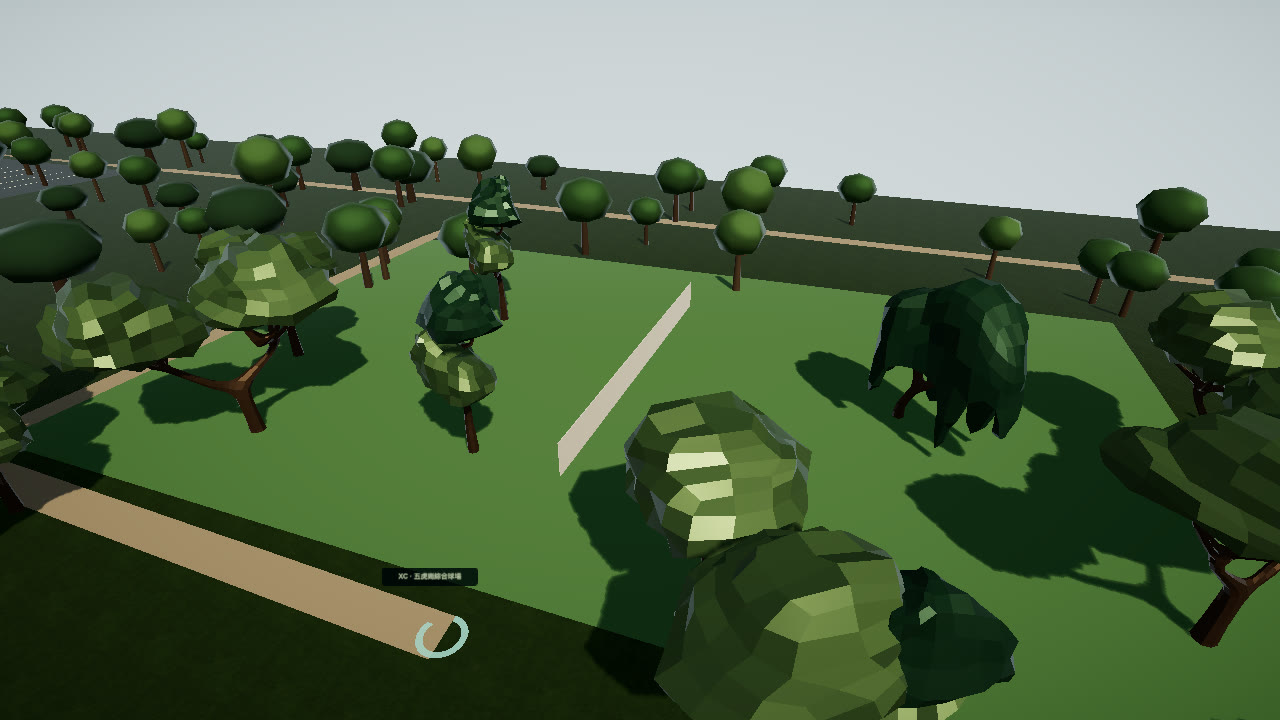
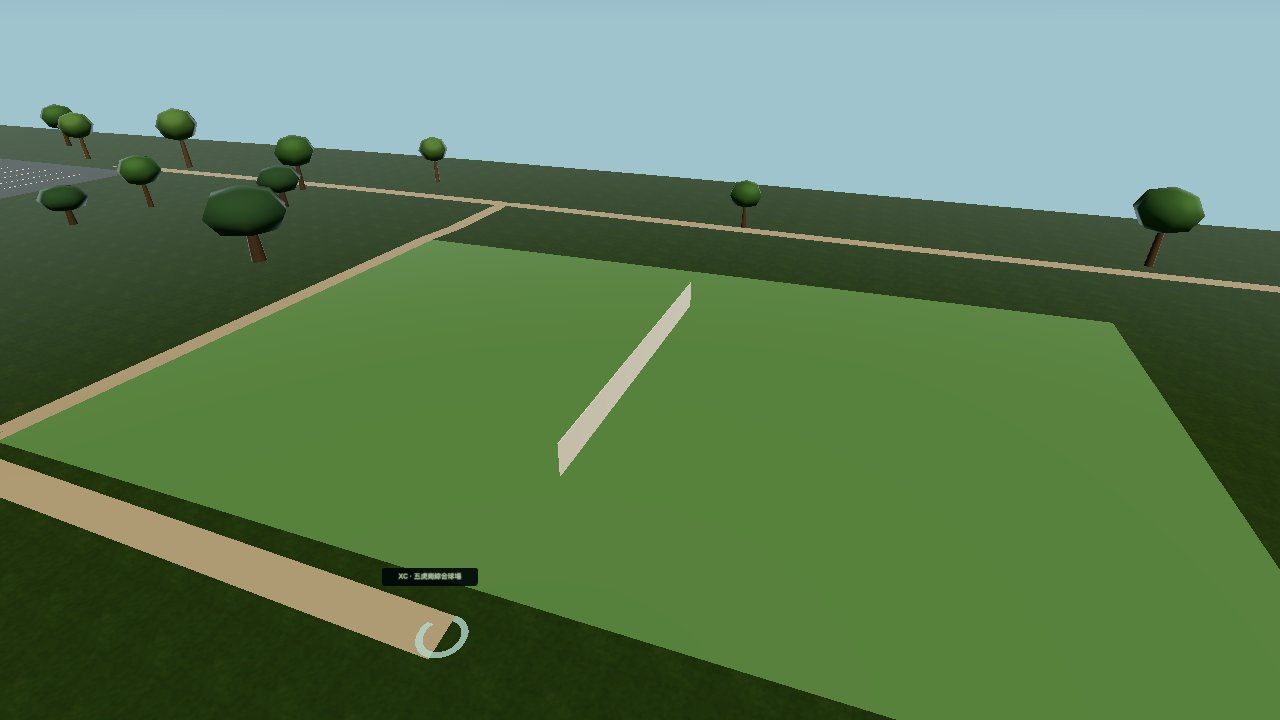
Record the wet-court checks on this host.
The rain shots are from this machine, and the integration notes keep the court clearing while the untextured courts scale darker in the rain.

diff --git a/docs/integration/HANDOFF.md b/docs/integration/HANDOFF.md
@@ -4,18 +4,18 @@
 
 ## 現在
 
-- 這次把散佈的樹移出球場、田徑場和停車場。接到 `origin/main` `d32e714`。遊戲程式是 `a26b87d`。
-- 外緣再留 3 m。五虎崗草皮是空的。1280×720 與 390×780 都看得到。植株位置仍是 estimated。這一輪不靠 PR #135 的球場線。
-- 跨系統路線在 `http://127.0.0.1:8146/` 通過：大門經驗 20、筆記 19；補給後經驗 44、筆記 21、學期期中；突襲小考 65→45；第二客戶端看到期中；`revision_conflict`；斷線時雲端經驗停在 47；登出 401。`pageErrors` 空。
-- PR #122 仍是 `48b1ac6`。不要單獨合併，也不要帶進 `docs/full-integration`。
+- 這次讓沒有貼圖的球場、停車場和跑道在雨後把顏色乘小。接到 `origin/main` `7c85a42`。遊戲程式是 `560f21d`。
+- 晴天顏色不變。1280×720 與 390×780 都看得到五虎崗雨後較深，樹仍在場外。不是實測日照。這一輪不畫 PR #135 的球場線。
+- 跨系統路線在 `http://127.0.0.1:8147/` 通過：大門經驗 20、筆記 19；補給後經驗 44、筆記 21、學期期中；突襲小考 65→45；第二客戶端看到期中；`revision_conflict`；斷線時雲端經驗停在 47；登出 401。`pageErrors` 空。
+- PR #122 現在是 `494989e`。對 `main` 的差只有 `docs/full-integration`、他們的路線腳本和兩行 CSS。不要單獨合併，也不要帶進 `docs/full-integration`。
 
-## 本輪已驗證（球場不種樹）
+## 本輪已驗證（雨後場地）
 
-`node --test scripts/court-clearing.test.mjs` 通過。`npm test` 310 通過。`node --experimental-transform-types scripts/integration-route.mjs` 走 `http://127.0.0.1:8146/`。幀時間是 SwiftShader。植株位置是 estimated。
+`node --test scripts/wet-surface.test.mjs` 通過。`npm test` 311 通過。`node --experimental-transform-types scripts/integration-route.mjs` 走 `http://127.0.0.1:8147/`。幀時間是 SwiftShader。不是實測日照。
 
 ## 下一步
 
-先 `git fetch`。樹清場已在 `main`，遊戲程式是 `a26b87d`。沒有再變就不要重跑跨系統路線，也不要為了對齊 SHA 再寫一筆。PR #32 的 `1fc5887` 仍不合併。整合 PR 是 #146。來源 `5739cd3` 不是祖先，不要單獨合併 PR #140。不要單獨合併 PR #122。PR #144、#143、#141、#138、#139、#131、#137、#128、#133、#129、#110、#108、#107、#105、#102、#101、#99、#97、#96、#93、#91、#90、#88、#86、#85、#82、#80、#79、#77、#75、#73、#72、#70、#68、#67、#65、#63、#61、#59、#56、#54、#53、#51 的程式已經在更早的整合裡，也不要再單獨合併。下一項是雨天把球場和跑道變暗（PR #142，`f900c8c`），它不靠球場線，但和 PR #135 都改 `ContextStructures.tsx`。接著是五虎球場畫線（PR #135，`06a75dc`）、坡道欄杆（PR #132，`1dce114`）、海事博物館船首（PR #127，`d0fd98b`）、會文館（PR #111，`412b130`）、司令臺台面（PR #113，`f2750c7`）、低畫質行人（PR #115，`9672ff3`）、美術傳輸預算（PR #116，`9a3d594`）、宮燈大道四個時段（PR #118，`266e4b7`）、宮燈鏡頭（PR #121，`3ce5f17`）、路燈燈頭（PR #124，`2b45515`）。先看它們目前的 head，再各自整合，不要單獨合併。三角形仍用 `7507c59` 那次重測。
+先 `git fetch`。雨後場地已接到這條整合分支，遊戲程式是 `560f21d`。靜態產物是 `AdventureApp-Bw3-LFcW.js`。PR #32 的 `1fc5887` 仍不合併。來源 `41771bb` 不是祖先，不要單獨合併 PR #142。不要單獨合併 PR #122。PR #146、#144、#143、#141、#140、#138、#139、#131、#137、#128、#133、#129、#110、#108、#107、#105、#102、#101、#99、#97、#96、#93、#91、#90、#88、#86、#85、#82、#80、#79、#77、#75、#73、#72、#70、#68、#67、#65、#63、#61、#59、#56、#54、#53、#51 的程式已經在更早的整合裡，也不要再單獨合併。下一項是五虎球場畫線（PR #135，`06a75dc`）。它和這一輪都改 `ContextStructures.tsx`，要同時留下雨後的顏色和兩塊球場的線。接著看涼亭（PR #145，`193f29d`），它也改 `ContextStructures.tsx` 和植栽。然後是坡道欄杆（PR #132，`1dce114`）、海事博物館船首（PR #127，`d0fd98b`）、會文館（PR #111，`412b130`）、司令臺台面（PR #113，`f2750c7`）、低畫質行人（PR #115，`9672ff3`）、美術傳輸預算（PR #116，`9a3d594`）、宮燈大道四個時段（PR #118，`266e4b7`）、宮燈鏡頭（PR #121，`3ce5f17`）、路燈燈頭（PR #124，`2b45515`）。先看它們目前的 head，再各自整合，不要單獨合併。三角形仍用 `7507c59` 那次重測。
 
 INT-01 維持不動。不要新增學期選擇，也不要做第二套獎勵帳。
 

diff --git a/docs/integration/STATUS.md b/docs/integration/STATUS.md
@@ -1,13 +1,13 @@
 # 整合狀態
 
-更新：2026-11-12。散佈的樹不再種進球場、田徑場和停車場，外緣留 3 m。五虎崗草皮是空的。植株位置仍是估計的。幀時間仍是 SwiftShader。
+更新：2026-11-12。沒有貼圖的球場、停車場和跑道在雨後把顏色乘小。晴天顏色不變。樹仍留在場外。不是實測日照。幀時間仍是 SwiftShader。
 本文件只記實際程式、PR 與本輪驗收。不把 M1 或 M2 當成整款遊戲完成，也不以 PR 或文件數量估算完成率。
 
 ## 三條線
 
 | 線 | 目前成果 | 開放 PR | 狀態 |
 | --- | --- | --- | --- |
-| 美術與場景 | 散佈的樹留在球場、田徑場和停車場外面。五虎崗草皮是空的。圖書館坡道仍可走。 | 來源 PR #140 `5739cd3`。整合 PR #146 | `merged` |
+| 美術與場景 | 球場、停車場和跑道在雨後變暗、變滑。晴天顏色不變。樹仍留在場外。 | 來源 PR #142 `41771bb`。整合尚未開 PR | `verified` |
 | 後端 | 雲端存檔接受既有背包的 `loadout`、`gear`、隔離物品和手持設施，並拒絕白名單以外的欄位。沒有這些欄位的舊存檔仍可上傳。 | 來源 `a76918e`。整合 PR #144 | `merged` |
 | 內容 | 十二名虛構的教授與系主任可以在估計的崗位交談。跨學院的選擇會改後面的句子。獎勵仍進既有背包，而且只記一次。 | 來源 PR #131 `246eadf`。整合 PR #139 | `merged` |
 
@@ -15,15 +15,15 @@
 
 ## 本輪範圍
 
-散佈的樹若落在球場、田徑場或停車場裡面，或外緣 3 m 內，就不種。五虎崗草皮上沒有樹幹。1280×720 與 390×780 都看得到空的草皮，樹在場外。植株位置仍是 estimated。這一輪不靠 PR #135 的球場線。圖書館坡道留著。
+沒有貼圖的球場、停車場和跑道在雨後把顏色乘小，亮度下降、粗糙度下降。晴天維持原來的綠、灰和磚紅。1280×720 與 390×780 都看得到五虎崗雨後較深的草皮和雨絲。樹仍在場外。不是實測日照。這一輪不畫 PR #135 的球場線。
 
 ## 路線
 
 | 項目 | 狀態 |
 | --- | --- |
-| 已製作 | 散佈的樹留在球場、田徑場和停車場外緣 3 m 外 |
-| 已驗證 | 靜態頁 `http://127.0.0.1:8146/`。1280×720 與 390×780 看得到五虎崗空草皮。`npm test` 310 通過。跨系統路線在同一站，`pageErrors` 空 |
-| 已合併 | 是。遊戲程式 `a26b87d`。整合 PR #146。`main` 未受保護、沒有必須的 check |
+| 已製作 | 雨後的球場、停車場和跑道把顏色乘小 |
+| 已驗證 | 靜態頁 `http://127.0.0.1:8147/`。1280×720 與 390×780 看得到五虎崗雨後較深。`npm test` 311 通過。跨系統路線在同一站，`pageErrors` 空 |
+| 已合併 | 否。遊戲程式 `560f21d`。`main` 未受保護、沒有必須的 check |
 | 已部署 | 否 |
 
 ## 尚未完成的遊戲範圍

diff --git a/docs/integration/VALIDATION.md b/docs/integration/VALIDATION.md
@@ -653,6 +653,14 @@ PR #122 的 head 在這輪又改到 `48b1ac6`。和 `main` 比，遊戲程式沒
 
 瀏覽器 `http://127.0.0.1:8146/`。1280×720 與 390×780 都看得到五虎崗空草皮，樹在場外。頁面無錯誤。同一站跨系統路線通過：大門經驗 20、筆記 19；補給後經驗 44、筆記 21、學期期中；突襲小考 65→45、經驗停在 44；存檔重載經驗 44、筆記 21、科系 `science-理學院-2`；revision 1；第二客戶端看到期中；`revision_conflict`；斷線時雲端經驗是 47；登出 401。`pageErrors` 空。
 
+## 雨後場地（本輪）
+
+來源 `41771bb` 接到 `7c85a42`。美術文件留到第 52 輪，這一輪記成第 53 輪。沒有帶 PR #135 的球場線。
+
+沒有貼圖的球場、停車場和跑道在雨後把顏色乘小，亮度下降、粗糙度下降。晴天顏色不變。這些顏色比材質庫的濕灰還深，所以不把灰色混進去。不是實測日照。樹仍留在場外。`npm run typecheck` 通過。`npm test` 311 通過。`npm run build:site` 通過，產物 `AdventureApp-Bw3-LFcW.js`。
+
+瀏覽器 `http://127.0.0.1:8147/`。1280×720 與 390×780 都看得到五虎崗：晴天草皮較淺，雨後較深，畫面有雨絲。頁面無錯誤。同一站跨系統路線通過：大門經驗 20、筆記 19；補給後經驗 44、筆記 21、學期期中；突襲小考 65→45、經驗停在 44；存檔重載經驗 44、筆記 21、科系 `science-理學院-2`；revision 1；第二客戶端看到期中；`revision_conflict`；斷線時雲端經驗是 47；登出 401。`pageErrors` 空。
+
 ## 本輪沒有驗的項目
 
 - 手機與真機上的雲端面板點擊。本輪在 Node 開發頁讀到面板文字，沒有在手機上操作

diff --git a/docs/integration/CONTRACTS.md b/docs/integration/CONTRACTS.md
@@ -70,7 +70,7 @@ URL 帶內容雜湊。幾何與 atlas 共享。卸載只走 `releaseArtInstance`
 
 教授與系主任也走這份存檔和既有 `grantQuestReward`。十二名都是虛構角色，崗位是門口外推的估計位置。同一個任務只付一次。`MAIN_INTEGRATION` 仍是 false。
 
-路燈中心若落在實體裡，會沿最近的一面推到牆外 1.2 m。圖書館名牌朝南，貼在南牆外側。燈位仍是 estimated。圖書館前的坡道從廣場升約 1.05 m 到台基，人走在這道坡上，坡面網格用同一個高度。坡度仍是 estimated。散佈的樹不種進球場、田徑場和停車場，外緣再留 3 m。植株位置仍是 estimated。
+路燈中心若落在實體裡，會沿最近的一面推到牆外 1.2 m。圖書館名牌朝南，貼在南牆外側。燈位仍是 estimated。圖書館前的坡道從廣場升約 1.05 m 到台基，人走在這道坡上，坡面網格用同一個高度。坡度仍是 estimated。散佈的樹不種進球場、田徑場和停車場，外緣再留 3 m。植株位置仍是 estimated。沒有貼圖的球場、停車場和跑道在雨後把顏色乘小，亮度下降、粗糙度下降。晴天顏色不變。這些顏色比材質庫的濕灰還深，所以不把灰色混進去。不是實測日照。
 
 同一條高畫質路線在遊戲程式 `7507c59` 的靜態頁重測：標題 1,204,683、戶外 1,562,527、戰鬥 1,495,745、返回 1,437,689，都低於 1.6 M。室內 46,548。幀時間是這台 SwiftShader，不是手機或 RTX 3060。手機圖示只改 CSS，沒有重測三角形。
 
